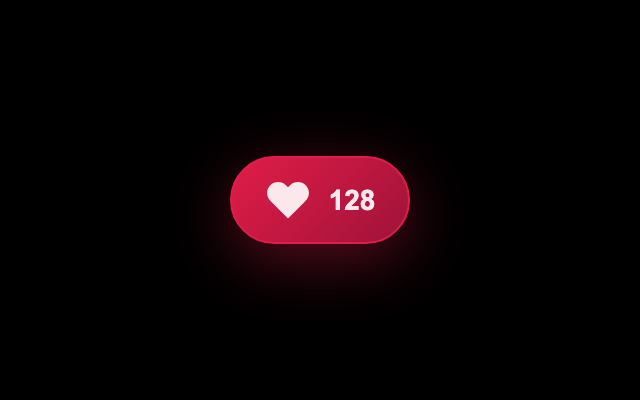
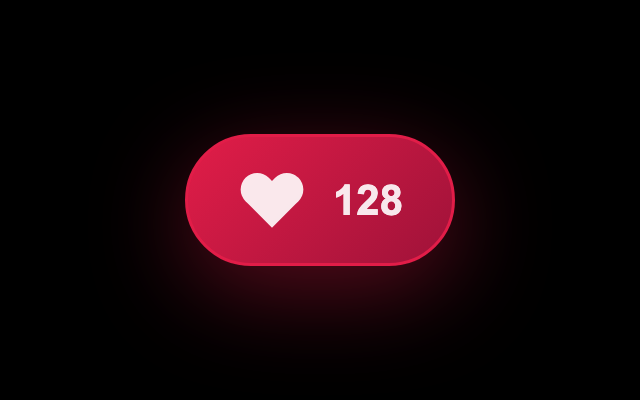
Update preview zoom level to enhance image display and replace preview image

Changed region(s): [[0.25, 0.33, 0.75, 0.78]]

diff --git a/templates/modern/heart/config.php b/templates/modern/heart/config.php
@@ -54,7 +54,7 @@ return [
 
     // Preview Settings
     'preview_background' => '#000000', // Dark background for preview image
-    'preview_zoom' => 2, // 2x zoom for larger preview
+    'preview_zoom' => 3, // 2x zoom for larger preview
 
     // Customization Settings
     'settings' => [
